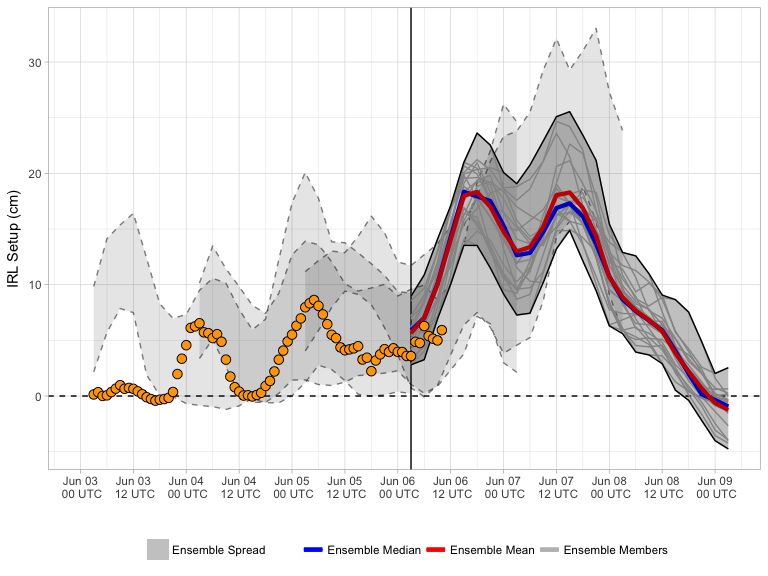
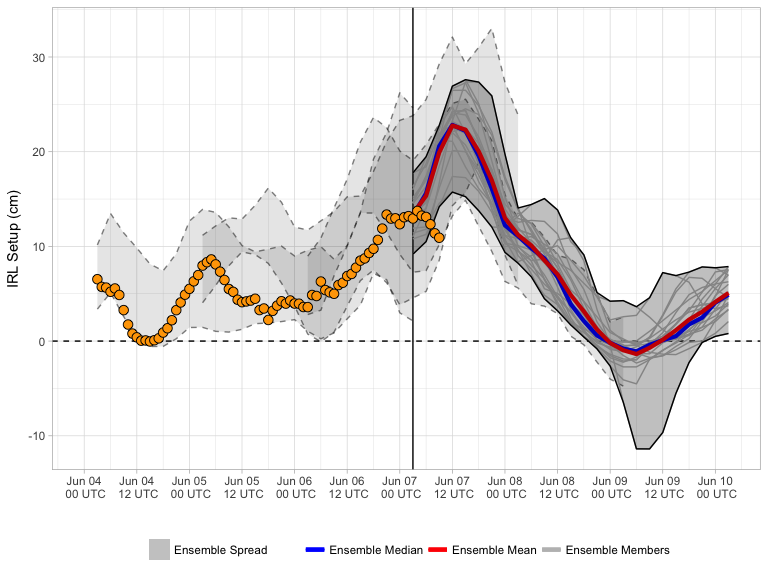
20170607 forecast update

diff --git a/docs/index.md b/docs/index.md
@@ -3,7 +3,7 @@ Current Forecast
 
 [![](img/raw_setup.png)](https://bhlmn.github.io/IRLSetup/img/raw_setup.png)
 
-> Forecast valid 2017-06-06 06:35:02.
+> Forecast valid 2017-06-07 06:18:56.
 
 Explanation
 -----------
@@ -15,7 +15,7 @@ water elevation in the northern IRL (near Titusville), and negative
 setup indicates the increase elevation in the southern IRL (near
 Sebastian). The x-axis displays the date and time in UTC. The solid
 vertical line represents the beginning of the most recent ensemble
-forecast (currently 2017-06-05 18:00:00). For this most recent forecast,
+forecast (currently 2017-06-06 18:00:00). For this most recent forecast,
 the ensemble spread (grey shading) is bound by solid black lines, with
 individual members represented by faint grey lines. The ensemble mean
 and median for this are represented by the red and blue curves,
